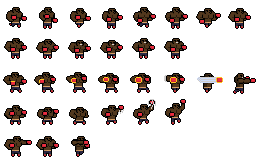
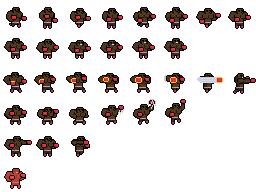
more asset changes

diff --git a/OpenGlTest/AssetManager.cpp b/OpenGlTest/AssetManager.cpp
@@ -19,119 +19,45 @@ using State = AnimatorController::AnimationState;
 #include "Boss.h"
 #include<string>
 
-
-#pragma region Xwing
-const Texture2D AssetManager::XwingTexture = Texture2D("Assets/X-wing.png", Texture2D::FilterMode::Nearest, 3, 2);
-const AnimationClip AssetManager::Xwing_Idle = AnimationClip({
-	{ XwingTexture[0], 0.05f },
-	{ XwingTexture[3], 0.05f },
-}, true);
-const AnimationClip AssetManager::Xwing_Left = AnimationClip({
-	{ XwingTexture[1], 0.05f },
-	{ XwingTexture[4], 0.05f },
-}, true);
-const AnimationClip AssetManager::Xwing_Right = AnimationClip({
-	{ XwingTexture[2], 0.05f },
-	{ XwingTexture[5], 0.05f },
-}, true);
-const AnimatorController AssetManager::Xwing_Controller = AnimatorController({
-	State("Idle", &Xwing_Idle, {
-		{ "Left", false, 1, [](auto& animator) { return animator.GetInteger("x") < 0; } },
-		{ "Right", false, 1, [](auto& animator) { return animator.GetInteger("x") > 0; } },
-	}),
-	State("Left", &Xwing_Left, {
-		{ "Idle", false, 1, [](auto& animator) { return animator.GetInteger("x") >= 0; } },
-	}),
-	State("Right", &Xwing_Right, {
-		{ "Idle", false, 1, [](auto& animator) { return animator.GetInteger("x") <= 0; } },
-	}),
-});;
-const GameObject AssetManager::XwingObject = GameObject(
-	"Xwing", "Untagged",
-	std::vector<std::shared_ptr<MonoBehaviour>>{
-	std::make_shared<SpriteRenderer>(&AssetManager::XwingTexture[0], false, false),
-		std::make_shared<Animator>(&AssetManager::Xwing_Controller),
-		std::make_shared<Rigidbody2D>(),
-		std::make_shared<CircleCollider2D>(0.25f, false, Vector2(0, -0.0625)),
-		//std::make_shared<BoxCollider2D>(Vector2(0.5f, 0.5f), false, Vector2(0, -0.0625f)),
-		std::make_shared<XwingPlayer>(),
-});
-
-const Texture2D AssetManager::Projectile_Blue_Texture = Texture2D("Assets/Projectile_Blue.png", Texture2D::FilterMode::Nearest, 3, 1);
-const AnimationClip AssetManager::Projectile_Blue_Idle = AnimationClip({
-	{ Projectile_Blue_Texture[0], 0.1f },
-	{ Projectile_Blue_Texture[1], 0.1f },
-	{ Projectile_Blue_Texture[2], 0.1f },
-}, true);
-const AnimatorController AssetManager::Projectile_Blue_Controller = AnimatorController({
-	State("Idle", &Projectile_Blue_Idle),
-});
-const GameObject AssetManager::ProjectileObject_Blue = GameObject(
-	"Projectile (Blue)", "Untagged",
-	std::vector<std::shared_ptr<MonoBehaviour>>{
-	std::make_shared<SpriteRenderer>(&AssetManager::Projectile_Blue_Texture[0], false, false),
-		std::make_shared<Animator>(&AssetManager::Projectile_Blue_Controller),
-		std::make_shared<Rigidbody2D>(),
-		std::make_shared<CircleCollider2D>(0.125f),
-		std::make_shared<Projectile>(),
-});
-#pragma endregion
-
-#pragma region Obstacle
-//Obstacle
-const Texture2D AssetManager::ObstacleTexture = Texture2D("Assets/Obstacle.png", Texture2D::FilterMode::Nearest, 3,1);
-const AnimationClip AssetManager::Obstacle_Idle = AnimationClip({
-	{ ObstacleTexture[0], 0.2f },
-	{ ObstacleTexture[1], 0.3f },
-	{ ObstacleTexture[2], 0.2f },
-	{ ObstacleTexture[1], 0.3f },
+#pragma region Sensei
+const Texture2D AssetManager::SenseiTexture = Texture2D("Assets/MasterWu.png", Texture2D::FilterMode::Nearest, 8, 7);
+const AnimationClip AssetManager::Sensei_Idle = AnimationClip({
+	{ SenseiTexture[0], 0.1f },
+	{ SenseiTexture[1], 0.1f },
+	{ SenseiTexture[2], 0.1f },
 	}, true);
-const AnimatorController AssetManager::Obstacle_Controller = AnimatorController({State("Idle", &Obstacle_Idle, {})});
-const GameObject AssetManager::ObstacleObject = GameObject(
-	"Obstacle", "Untagged",
-	std::vector<std::shared_ptr<MonoBehaviour>>{
-	std::make_shared<SpriteRenderer>(&AssetManager::ObstacleTexture[0], false, false),
-		std::make_shared<Animator>(&AssetManager::Obstacle_Controller),
-		std::make_shared<Rigidbody2D>(),
-		std::make_shared<BoxCollider2D>(Vector2(1, 1)),
-		std::make_shared<Obstacle>()
-});
-
-//ObstaclesSpawner
-const GameObject AssetManager::ObstacleSpawnerObject = GameObject(
-	"ObstacleSpawnerObject", "Untagged",
-	std::vector<std::shared_ptr<MonoBehaviour>>{
-	std::make_shared<ObstacleSpawner>(),
-});
-#pragma endregion
-
-#pragma region Backgrounds
-const Texture2D AssetManager::SpaceBackground = Texture2D("Assets/SpaceBackground.png", Texture2D::FilterMode::Nearest);
-const Texture2D AssetManager::GalaxyBackground = Texture2D("Assets/GalaxyBackground.png", Texture2D::FilterMode::Nearest);
-const GameObject GalaxyBackgroundObject = GameObject(
-	"Background", "Untagged",
-	std::vector<std::shared_ptr<MonoBehaviour>>{
-	std::make_shared<Parallax>(&AssetManager::GalaxyBackground[0], Vector2::left(), 0.05f),
-});
-#pragma endregion
-
-#pragma region Menu
-const Texture2D AssetManager::GameTitle = Texture2D("Assets/GameTitle.png", Texture2D::FilterMode::Nearest);
-const Texture2D AssetManager::MenuOptions = Texture2D("Assets/MenuOptions.png", Texture2D::FilterMode::Nearest);
-const Texture2D AssetManager::PauseScreen = Texture2D("Assets/PauseScreen.png", Texture2D::FilterMode::Nearest);
-const Texture2D AssetManager::PauseMessage = Texture2D("Assets/PauseMessage.png", Texture2D::FilterMode::Nearest);
-
-const Texture2D AssetManager::Font = Texture2D("Assets/font.png", Texture2D::FilterMode::Nearest, 16, 8);
-const Texture2D AssetManager::GreenSlime = Texture2D("Assets/GreenSlime.png", Texture2D::FilterMode::Nearest, 4, 2);
-const AnimationClip AssetManager::GreenSlime_Idle = AnimationClip({
-	{ GreenSlime[1], 0.15f },
-	{ GreenSlime[5], 0.15f },
-}, true);
-const AnimatorController AssetManager::GreenSlime_Controller = AnimatorController({
-	State("Idle", &GreenSlime_Idle),
-	});
-		//{.targetState = "Run", .hasExitTime = false, .condition = [&]() { return false; } },
-#pragma endregion
+const AnimationClip AssetManager::Sensei_Walking = AnimationClip({
+	{ SenseiTexture[6], 0.1f },
+	{ SenseiTexture[7], 0.1f },
+	{ SenseiTexture[8], 0.1f },
+	}, true);
+const AnimationClip AssetManager::Sensei_Hadoken = AnimationClip({
+	{ SenseiTexture[12], 0.1f },
+	{ SenseiTexture[13], 0.1f },
+	{ SenseiTexture[14], 0.1f },
+	}, true);
+const AnimationClip AssetManager::Sensei_CallsReinforcements = AnimationClip({
+	{ SenseiTexture[18], 0.1f },
+	{ SenseiTexture[19], 0.1f },
+	{ SenseiTexture[20], 0.1f },
+	{ SenseiTexture[21], 0.1f },
+	{ SenseiTexture[22], 0.1f },
+	{ SenseiTexture[23], 0.1f },
+	}, true);
+const AnimationClip AssetManager::Sensei_CallingReinforcements = AnimationClip({
+	{ SenseiTexture[20], 0.1f },
+	{ SenseiTexture[21], 0.1f },
+	{ SenseiTexture[22], 0.1f },
+	{ SenseiTexture[23], 0.1f },
+	}, true);
+const AnimationClip AssetManager::Sensei_Teleport = AnimationClip({
+	{ SenseiTexture[24], 0.1f },
+	{ SenseiTexture[25], 0.1f },
+	{ SenseiTexture[26], 0.1f },
+	{ SenseiTexture[27], 0.1f },
+	{ SenseiTexture[28], 0.1f },
+	{ SenseiTexture[29], 0.1f },
+	}, true);
 
 #pragma region Boss1
 const Texture2D AssetManager::BossTexture = Texture2D("Assets/Boss_1_Phase1.png", Texture2D::FilterMode::Nearest, 8, 7);
@@ -337,15 +263,136 @@ const GameObject AssetManager::MiniTikeMysonObject = GameObject(
 });
 #pragma endregion
 
+#pragma region Testing
+#pragma region Xwing
+const Texture2D AssetManager::XwingTexture = Texture2D("Assets/X-wing.png", Texture2D::FilterMode::Nearest, 3, 2);
+const AnimationClip AssetManager::Xwing_Idle = AnimationClip({
+	{ XwingTexture[0], 0.05f },
+	{ XwingTexture[3], 0.05f },
+}, true);
+const AnimationClip AssetManager::Xwing_Left = AnimationClip({
+	{ XwingTexture[1], 0.05f },
+	{ XwingTexture[4], 0.05f },
+}, true);
+const AnimationClip AssetManager::Xwing_Right = AnimationClip({
+	{ XwingTexture[2], 0.05f },
+	{ XwingTexture[5], 0.05f },
+}, true);
+const AnimatorController AssetManager::Xwing_Controller = AnimatorController({
+	State("Idle", &Xwing_Idle, {
+		{ "Left", false, 1, [](auto& animator) { return animator.GetInteger("x") < 0; } },
+		{ "Right", false, 1, [](auto& animator) { return animator.GetInteger("x") > 0; } },
+	}),
+	State("Left", &Xwing_Left, {
+		{ "Idle", false, 1, [](auto& animator) { return animator.GetInteger("x") >= 0; } },
+	}),
+	State("Right", &Xwing_Right, {
+		{ "Idle", false, 1, [](auto& animator) { return animator.GetInteger("x") <= 0; } },
+	}),
+});;
+const GameObject AssetManager::XwingObject = GameObject(
+	"Xwing", "Untagged",
+	std::vector<std::shared_ptr<MonoBehaviour>>{
+	std::make_shared<SpriteRenderer>(&AssetManager::XwingTexture[0], false, false),
+		std::make_shared<Animator>(&AssetManager::Xwing_Controller),
+		std::make_shared<Rigidbody2D>(),
+		std::make_shared<CircleCollider2D>(0.25f, false, Vector2(0, -0.0625)),
+		//std::make_shared<BoxCollider2D>(Vector2(0.5f, 0.5f), false, Vector2(0, -0.0625f)),
+		std::make_shared<XwingPlayer>(),
+});
+
+const Texture2D AssetManager::Projectile_Blue_Texture = Texture2D("Assets/Projectile_Blue.png", Texture2D::FilterMode::Nearest, 3, 1);
+const AnimationClip AssetManager::Projectile_Blue_Idle = AnimationClip({
+	{ Projectile_Blue_Texture[0], 0.1f },
+	{ Projectile_Blue_Texture[1], 0.1f },
+	{ Projectile_Blue_Texture[2], 0.1f },
+}, true);
+const AnimatorController AssetManager::Projectile_Blue_Controller = AnimatorController({
+	State("Idle", &Projectile_Blue_Idle),
+});
+const GameObject AssetManager::ProjectileObject_Blue = GameObject(
+	"Projectile (Blue)", "Untagged",
+	std::vector<std::shared_ptr<MonoBehaviour>>{
+	std::make_shared<SpriteRenderer>(&AssetManager::Projectile_Blue_Texture[0], false, false),
+		std::make_shared<Animator>(&AssetManager::Projectile_Blue_Controller),
+		std::make_shared<Rigidbody2D>(),
+		std::make_shared<CircleCollider2D>(0.125f),
+		std::make_shared<Projectile>(),
+});
+#pragma endregion
+
+#pragma region Obstacle
+//Obstacle
+const Texture2D AssetManager::ObstacleTexture = Texture2D("Assets/Obstacle.png", Texture2D::FilterMode::Nearest, 3,1);
+const AnimationClip AssetManager::Obstacle_Idle = AnimationClip({
+	{ ObstacleTexture[0], 0.2f },
+	{ ObstacleTexture[1], 0.3f },
+	{ ObstacleTexture[2], 0.2f },
+	{ ObstacleTexture[1], 0.3f },
+	}, true);
+const AnimatorController AssetManager::Obstacle_Controller = AnimatorController({State("Idle", &Obstacle_Idle, {})});
+const GameObject AssetManager::ObstacleObject = GameObject(
+	"Obstacle", "Untagged",
+	std::vector<std::shared_ptr<MonoBehaviour>>{
+	std::make_shared<SpriteRenderer>(&AssetManager::ObstacleTexture[0], false, false),
+		std::make_shared<Animator>(&AssetManager::Obstacle_Controller),
+		std::make_shared<Rigidbody2D>(),
+		std::make_shared<BoxCollider2D>(Vector2(1, 1)),
+		std::make_shared<Obstacle>()
+});
+
+//ObstaclesSpawner
+const GameObject AssetManager::ObstacleSpawnerObject = GameObject(
+	"ObstacleSpawnerObject", "Untagged",
+	std::vector<std::shared_ptr<MonoBehaviour>>{
+	std::make_shared<ObstacleSpawner>(),
+});
+#pragma endregion
+#pragma endregion
+
+#pragma region UI
+
+#pragma region Backgrounds
+const Texture2D AssetManager::SpaceBackground = Texture2D("Assets/SpaceBackground.png", Texture2D::FilterMode::Nearest);
+const Texture2D AssetManager::GalaxyBackground = Texture2D("Assets/GalaxyBackground.png", Texture2D::FilterMode::Nearest);
+const GameObject GalaxyBackgroundObject = GameObject(
+	"Background", "Untagged",
+	std::vector<std::shared_ptr<MonoBehaviour>>{
+	std::make_shared<Parallax>(&AssetManager::GalaxyBackground[0], Vector2::left(), 0.05f),
+});
+#pragma endregion
+
+#pragma region Menu
+const Texture2D AssetManager::GameTitle = Texture2D("Assets/GameTitle.png", Texture2D::FilterMode::Nearest);
+const Texture2D AssetManager::MenuOptions = Texture2D("Assets/MenuOptions.png", Texture2D::FilterMode::Nearest);
+const Texture2D AssetManager::PauseScreen = Texture2D("Assets/PauseScreen.png", Texture2D::FilterMode::Nearest);
+const Texture2D AssetManager::PauseMessage = Texture2D("Assets/PauseMessage.png", Texture2D::FilterMode::Nearest);
+
+const Texture2D AssetManager::Font = Texture2D("Assets/font.png", Texture2D::FilterMode::Nearest, 16, 8);
+const Texture2D AssetManager::GreenSlime = Texture2D("Assets/GreenSlime.png", Texture2D::FilterMode::Nearest, 4, 2);
+const AnimationClip AssetManager::GreenSlime_Idle = AnimationClip({
+	{ GreenSlime[1], 0.15f },
+	{ GreenSlime[5], 0.15f },
+}, true);
+const AnimatorController AssetManager::GreenSlime_Controller = AnimatorController({
+	State("Idle", &GreenSlime_Idle),
+	});
+		//{.targetState = "Run", .hasExitTime = false, .condition = [&]() { return false; } },
+#pragma endregion
+
+#pragma endregion
+
 #pragma region Misc
 //Misc
 const Texture2D AssetManager::SkyBackground = Texture2D("Assets/SkyBackground.png", Texture2D::FilterMode::Nearest);
 const Texture2D AssetManager::MountainBackground = Texture2D("Assets/MountainBackground.png", Texture2D::FilterMode::Nearest);
 const Texture2D AssetManager::Googleplex = Texture2D("Assets/Googleplex.png", Texture2D::FilterMode::Linear);
-#pragma endregion
-
 const Texture2D BossScene = Texture2D("Assets/MK-1_Intro.png", Texture2D::FilterMode::Nearest);
 
+#pragma endregion
+
+
+#pragma region Scenes
 
 #pragma region LandingScene
 const GameObject TitleObject = GameObject(
@@ -479,4 +526,5 @@ Scene Assets_Scenes::GameScene = Scene({
 	{&GameEventManagerObject, Transform(Vector3(2, 0, 0))},
 	{&OtherGameEventManagerObject, Transform(Vector3(-1, 0, 0))},
 	});
+#pragma endregion
 #pragma endregion

diff --git a/OpenGlTest/AssetManager.h b/OpenGlTest/AssetManager.h
@@ -27,6 +27,17 @@ public:
 	static const AnimationClip GreenSlime_Idle;
 	static const AnimatorController GreenSlime_Controller;
 
+	//Sensei
+	static const Texture2D SenseiTexture;
+	static const AnimationClip Sensei_Idle;
+	static const AnimationClip Sensei_Walking;
+	static const AnimationClip Sensei_Hadoken;
+	static const AnimationClip Sensei_CallsReinforcements;
+	static const AnimationClip Sensei_CallingReinforcements;
+	static const AnimationClip Sensei_Teleport;
+	static const AnimatorController Sensei_Controller;
+	static const GameObject SenseiObject;
+
 	//Boss
 	static const Texture2D BossTexture;
 	static const AnimationClip Boss_Charging;
